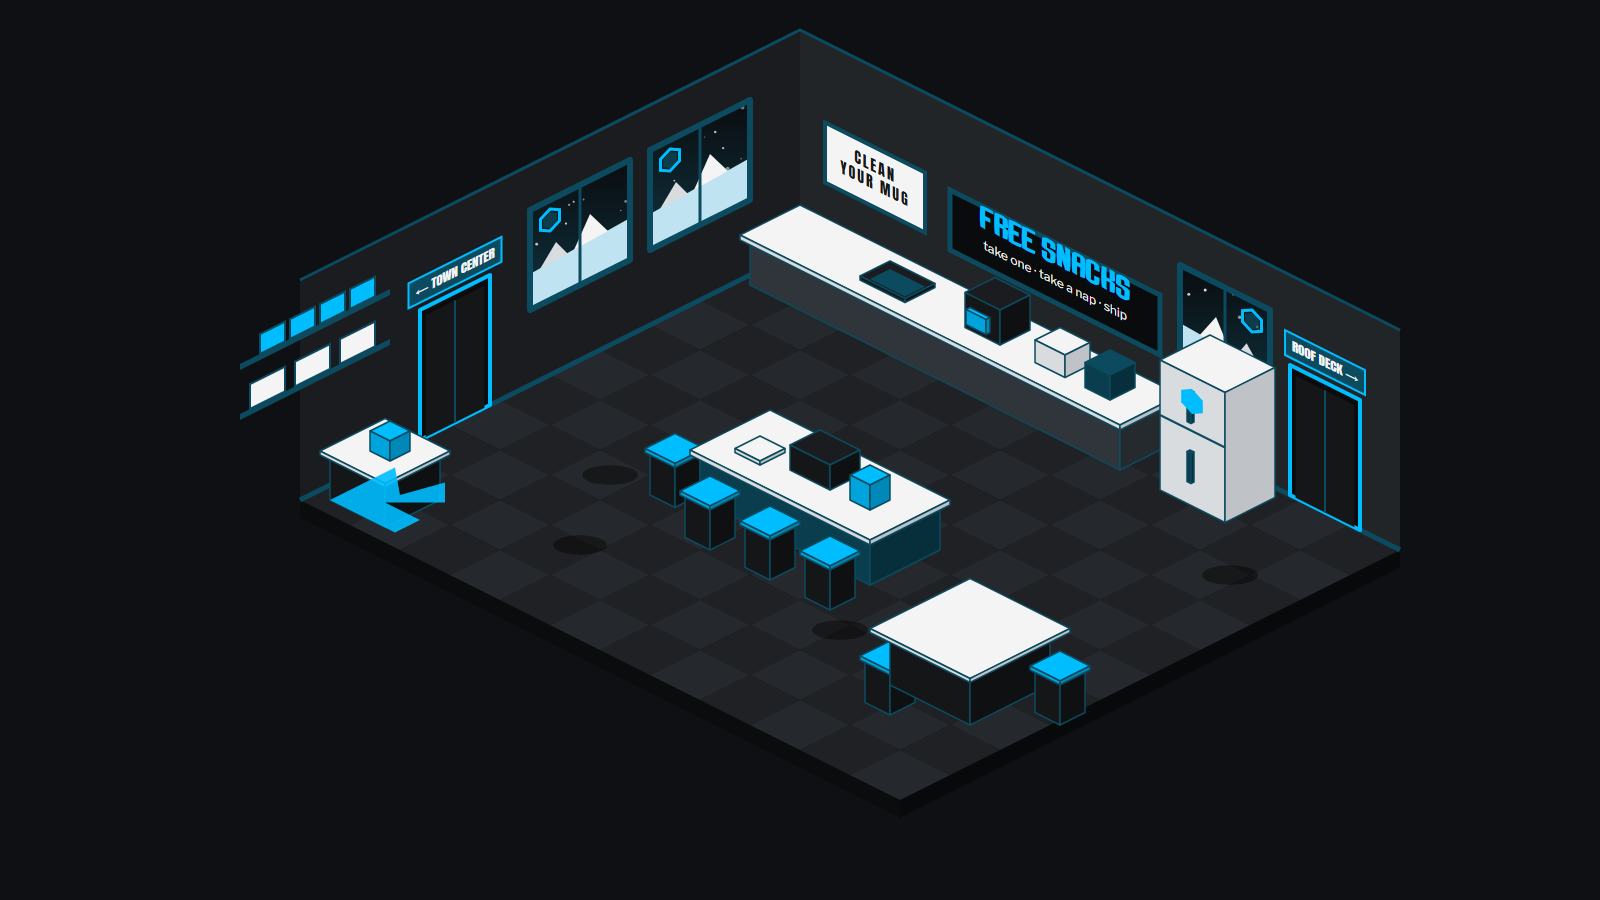
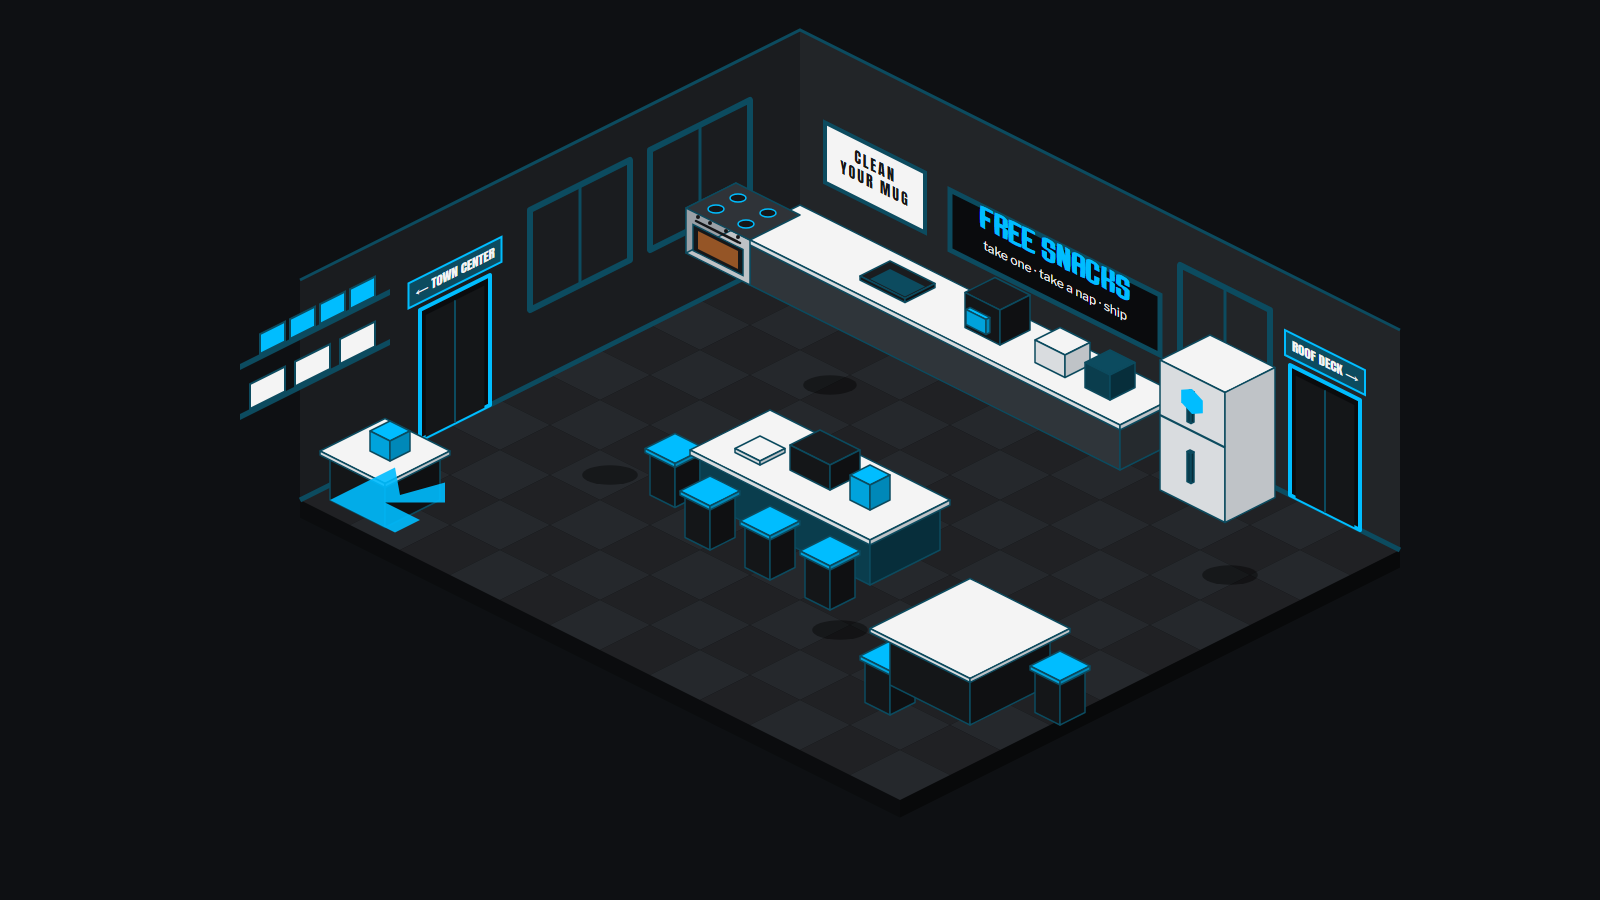
fix: resync room art export and data to the #91 Kitchen rename (#92 D1-D3)
- export-room-art.ts: map the-melt to the renamed Kitchen.dc.html and
  update its LIVE_ELEMENT_RULES for the new design's characters (Tom's
  tomWalk figure, Tonya/Jesse idle, shared say bubbles, and the new
  minigame-prompt pills) and title banner text.
- the-melt.ts: rename the displayed title to THE KITCHEN; replace the old
  chef-chelsea/chelsea pair with the redesigned single Chelsea plus the new
  Tom NPC; leave their row-2 aisle tiles walkable (a documented exception,
  like Roof Deck's Kevin/Josh aisle) since blocking them would fragment the
  Kitchen's only walkway.
- dev-pit.ts: block the five new desks' tiles added by the resync, except
  one monitor tile whose blocking would isolate a floor pocket
  (documented exception, reachability.test.ts-verified).
- town-center.ts / roof-deck.ts: update stale "The Melt" comments.
- Update the "THE MELT" title fixtures in validate.test.ts and
  pancake-flip-shell.test.ts.
- Re-export town-center/dev-pit/the-melt art; roof-deck and igloo come out
  byte-identical.

Changed region(s): [[0.3125, 0.1556, 0.5, 0.3422], [0.75, 0.3422, 0.8125, 0.3733]]

diff --git a/src/game/rooms/definitions/the-melt.ts b/src/game/rooms/definitions/the-melt.ts
@@ -10,16 +10,22 @@ import { townCenter } from './town-center';
 // `door()` isolib helper).
 const DOOR_HOTSPOT_SIZE = { width: 70, height: 165 };
 
-// Traced from `design/Room 04 Kitchen.dc.html`'s fixtures: the back-wall
-// counter/"FREE SNACKS" bar (rows 0-1), the central island counter and
-// fridge cluster (rows 3-6), and the front counter/table run (rows 7-9).
-// Row 4's cols 7-10 and row 9's cols 0-1 sample as the same floor colour as
-// the rest of the open floor in the exported art (not the counters'
-// white/teal), so they're walkable rather than blocked under the counter
-// cluster or the floor-arrow decal near the TOWN CENTER door (#16 fix 5).
-// Chelsea's and Jesse's own tiles are additionally blocked so a Penguin
-// can't walk through them (#16 fix 5); Chef Chelsea's and Tonya's tiles
-// already sat on unwalkable counters.
+// Traced from `design/Kitchen.dc.html`'s fixtures (#92 D3 resync -- the
+// walls, counters and doors are unchanged from the pre-resync trace, only
+// the NPCs moved): the back-wall counter/"FREE SNACKS" bar (rows 0-1), the
+// central island counter and fridge cluster (rows 3-6), and the front
+// counter/table run (rows 7-9). Row 4's cols 7-10 and row 9's cols 0-1
+// sample as the same floor colour as the rest of the open floor in the
+// exported art (not the counters' white/teal), so they're walkable rather
+// than blocked under the counter cluster or the floor-arrow decal near the
+// TOWN CENTER door (#16 fix 5). Tonya's tile already sat on an unwalkable
+// counter. Chelsea, Tom and Jesse (see `npcSlots` below) all resync (#92 D3)
+// onto row 2, this Room's only aisle between the back and island counters --
+// unlike every other NPC tile in this prototype, blocking their own tiles
+// would cut that single-tile-wide aisle into disconnected pockets
+// (`reachability.test.ts` catches this), so, like Roof Deck's Kevin/Josh
+// exception, their tiles are left walkable as a documented exception rather
+// than fabricating an unverified mask change to widen the aisle.
 const WALKABLE: readonly (readonly boolean[])[] = [
   [false, false, false, false, false, false, false, false, false, false, true, true],
   [false, false, false, false, false, false, false, false, false, false, true, true],
@@ -34,12 +40,15 @@ const WALKABLE: readonly (readonly boolean[])[] = [
 ];
 
 /**
- * Traced from `design/Room 04 Kitchen.dc.html` (The Melt is the Kitchen):
- * a real door back to Town Center and a real door on to the Roof Deck.
+ * Traced from `design/Kitchen.dc.html` (#92: file renamed from `Room 04
+ * Kitchen.dc.html`, Player-facing name renamed from THE MELT to THE
+ * KITCHEN): a real door back to Town Center and a real door on to the Roof
+ * Deck -- both doors are pixel-identical to the pre-resync design, so their
+ * hotspots/entry tiles are unchanged.
  */
 export const theMelt: RoomDefinition = {
   id: 'the-melt',
-  title: 'THE MELT',
+  title: 'THE KITCHEN',
   subtitle: 'KITCHEN · FLOOR 5',
   background: { kind: 'image', key: 'room-the-melt', url: 'rooms/the-melt.png' },
   grid: createStandardRoomGrid(),
@@ -67,12 +76,12 @@ export const theMelt: RoomDefinition = {
     },
   ],
   npcSlots: [
-    { npcId: 'chef-chelsea', tile: { col: 3, row: 1 } },
-    // "Chelsea Merrill": a full name like Darrin Jahnel's, kebab-cased to
-    // first name only — distinct from `chef-chelsea` above (the design
-    // names two different Chelseas in this Room).
-    { npcId: 'chelsea', tile: { col: 4, row: 8 } },
+    // #92 D3 resync: the design now names a single "Chelsea" (the pancake
+    // cook) instead of the pre-resync "Chef Chelsea"/"Chelsea Merrill" pair,
+    // and adds "Tom" (a walking, coffee-obsessed NPC); Tonya keeps her tile.
+    { npcId: 'chelsea', tile: { col: 3, row: 2 } },
+    { npcId: 'tom', tile: { col: 7, row: 2 } },
+    { npcId: 'jesse', tile: { col: 10, row: 2 } },
     { npcId: 'tonya', tile: { col: 8, row: 7 } },
-    { npcId: 'jesse', tile: { col: 11, row: 2 } },
   ],
 };

diff --git a/scripts/export-room-art.ts b/scripts/export-room-art.ts
@@ -53,7 +53,7 @@ type RoomId = 'town-center' | 'dev-pit' | 'the-melt' | 'roof-deck' | 'igloo';
 const ROOM_FILES: Record<RoomId, string> = {
   'town-center': 'Room 01 Town Center.dc.html',
   'dev-pit': 'Room 02 Dev Pit.dc.html',
-  'the-melt': 'Room 04 Kitchen.dc.html', // The Melt is the Kitchen.
+  'the-melt': 'Kitchen.dc.html', // RoomId `the-melt` stays; the design now calls it THE KITCHEN (#92 D1).
   'roof-deck': 'Room 05 Roof Deck.dc.html', // not the "05b ... Day" variant.
   igloo: 'Room 06 Igloo.dc.html',
 };
@@ -235,28 +235,40 @@ const LIVE_ELEMENT_RULES: Record<RoomId, HideRule[]> = {
     },
   ],
   'the-melt': [
-    // Every character in this Room is a flat, non-animated svg+nameplate
-    // pair (confirmed by inspection -- no CSS keyframes are applied to any
-    // figure here), so this Room has no `animation` rules for characters.
+    // #92 D3 resync: the design now names a single "Chelsea" (near the
+    // pancake station) instead of the pre-resync "Chef Chelsea"/"Chelsea
+    // Merrill" pair, and adds "Tom", a walking, coffee-obsessed NPC.
+    // Chelsea, Tonya and Jesse are still flat, non-animated svg+nameplate
+    // pairs; only Tom and every speech bubble use CSS keyframes.
     {
       kind: 'animation',
       names: ['blink'],
-      comment: "Blinking '↙ TOWN CENTER' / 'ROOF DECK ↗' room-exit nav pills (HUD).",
+      comment:
+        "Blinking '↙ TOWN CENTER' / 'ROOF DECK ↗' room-exit nav pills, and the new 'TALK · PANCAKE FLIP' / 'TALK · COFFEE RUSH' minigame prompt pills (all HUD).",
+    },
+    {
+      kind: 'animation',
+      names: ['tomWalk'],
+      comment:
+        "Tom's walking figure: unlike this Room's other NPCs, his nested name/speech bubbles all sit inside his own animated group, so this one rule hides his entire figure.",
+    },
+    {
+      kind: 'animation',
+      names: ['idle'],
+      comment:
+        "Tonya's and Jesse's subtle idle body motion (their nameplates are static -- see the labels rule below).",
+    },
+    {
+      kind: 'animation',
+      names: ['say'],
+      comment:
+        'Every speech bubble in this Room (Chelsea, Tonya, Jesse and the floating "who took my yogurt" bubble), all sharing this one keyframe.',
     },
     {
       kind: 'labels',
-      texts: [
-        'Chef Chelsea',
-        'Fresh pot!',
-        'Chelsea Merrill',
-        'Flip it NOW.',
-        'who took my yogurt',
-        'Tonya',
-        'Jesse',
-        'You',
-      ],
+      texts: ['Chelsea', 'Tonya', 'Jesse', 'You'],
       comment:
-        'Stationary NPCs/Penguins and their name/speech labels: two cook NPCs (Chef Chelsea, Chelsea Merrill) plus their bubbles, a floating "who took my yogurt" bubble, the Tonya and Jesse penguin NPCs, and the local player.',
+        'Stationary NPCs/Penguins and their nameplates: the Chelsea and Tonya/Jesse penguin NPCs, and the local player.',
     },
     {
       kind: 'cluster',
@@ -266,8 +278,8 @@ const LIVE_ELEMENT_RULES: Record<RoomId, HideRule[]> = {
     },
     {
       kind: 'cluster',
-      anchor: 'THE MELT',
-      companions: ['THE MELT', 'KITCHEN · FLOOR 5 · 4 PENGUINS HERE · COFFEE: FRESH'],
+      anchor: 'THE KITCHEN',
+      companions: ['THE KITCHEN', 'KITCHEN · FLOOR 5 · 4 PENGUINS HERE · COFFEE: FRESH'],
       comment: 'Room title/subtitle banner (HUD).',
     },
     {

diff --git a/src/game/rooms/definitions/dev-pit.ts b/src/game/rooms/definitions/dev-pit.ts
@@ -10,16 +10,25 @@ const DOOR_HOTSPOT_SIZE = { width: 70, height: 165 };
 
 // Traced from `design/Room 02 Dev Pit.dc.html`'s fixtures: the "SPRINT 42"
 // whiteboard/desk cluster (cols 1-4, rows 1-3) and a small pedestal by THE
-// ICEBOX elevator (col 11, row 3). Every NPC's own tile (see `npcSlots`
-// below) is additionally blocked so a Penguin can't walk through them (#16
-// fix 5) -- this Room's floor was otherwise fully open.
+// ICEBOX elevator (col 11, row 3). #92 D3 resync added five more desks
+// (each a monitor tile plus the desktop/keyboard tile just in front of it,
+// the same two-tile footprint the original desk already blocked): (4,1)/
+// (5,2) (partially overlapping the original cluster's own (4,2)), (1,4)/
+// (1,5), (4,5) (its monitor tile (4,4) is left walkable -- blocking it seals
+// (2,4)/(3,4)/(2,5) into a pocket with no other opening, `reachability.test.ts`
+// catches this, so it's left walkable as a documented exception, the same
+// call Roof Deck's Kevin/Josh aisle makes), (7,1) (its desktop tiles
+// (7,2)/(8,2) were already blocked as Ryan's and Sam's own NPC tiles,
+// below), and (7,4)/(7,5). Every NPC's own tile (see `npcSlots` below) is
+// additionally blocked so a Penguin can't walk through them (#16 fix 5) --
+// this Room's floor was otherwise fully open.
 const WALKABLE: readonly (readonly boolean[])[] = [
   [true, true, true, true, true, true, true, true, true, true, true, true],
-  [true, false, false, false, true, true, true, true, true, true, true, true],
-  [true, false, false, false, false, true, true, false, false, true, true, true],
+  [true, false, false, false, false, true, true, false, true, true, true, true],
+  [true, false, false, false, false, false, true, false, false, true, true, true],
   [true, true, false, false, false, true, true, true, true, true, true, false],
-  [true, true, true, true, true, true, true, true, true, true, true, true],
-  [true, true, true, false, true, true, true, true, true, true, true, true],
+  [true, false, true, true, true, true, true, false, true, true, true, true],
+  [true, false, true, false, false, true, true, false, true, true, true, true],
   [true, true, false, true, true, true, true, true, true, true, true, true],
   [true, true, true, true, true, true, true, true, true, true, true, true],
   [true, true, true, true, true, true, true, true, true, true, false, true],
@@ -29,9 +38,9 @@ const WALKABLE: readonly (readonly boolean[])[] = [
 /**
  * Traced from `design/Room 02 Dev Pit.dc.html`: a real door back to Town
  * Center, and THE ICEBOX disabled (not one of this prototype's five Rooms).
- * The design has no in-scene door or elevator toward The Melt/Kitchen at
- * all (confirmed: no "MELT"/"KITCHEN" text anywhere in the file), so this
- * Room defines no door to The Melt.
+ * The design has no in-scene door or elevator toward the Kitchen at all
+ * (confirmed: no "MELT"/"KITCHEN" text anywhere in the file), so this
+ * Room defines no door to the Kitchen.
  */
 export const devPit: RoomDefinition = {
   id: 'dev-pit',

diff --git a/src/game/rooms/definitions/town-center.ts b/src/game/rooms/definitions/town-center.ts
@@ -43,9 +43,11 @@ const WALKABLE: readonly (readonly boolean[])[] = [
  * "ELEVATOR · ROOF DECK" (real; its hotspot is the two animated door panels'
  * bounding box, since it isn't drawn with the same `door()` frame as the
  * others). The design also shows a "KITCHEN ↘" HUD exit pill with no in-scene
- * door graphic to place a hotspot on, so this Room has no door to The Melt
- * (The Melt's own "← TOWN CENTER" door is one-way in this static prototype;
- * see the #16 execution plan's reported deviations).
+ * door graphic to place a hotspot on, so this Room has no door to the Kitchen
+ * (the Kitchen's own "← TOWN CENTER" door is one-way in this static
+ * prototype; see the #16 execution plan's reported deviations). #92 D3
+ * resync: this Room's only design change was a cosmetic tweak to Anthony's
+ * (Roof Deck) cameo figure, so this trace is otherwise unchanged.
  */
 export const townCenter: RoomDefinition = {
   id: 'town-center',

diff --git a/src/game/rooms/definitions/roof-deck.ts b/src/game/rooms/definitions/roof-deck.ts
@@ -39,7 +39,7 @@ const WALKABLE: readonly (readonly boolean[])[] = [
  * only exit indicator is a "↙ ELEVATOR · STAIRS · KITCHEN" HUD nav pill, with
  * no in-world hotspot to place. Per #16 D3 ("doors placed on the design's
  * door signs/doorways"), there is nothing to place here, so this Room has no
- * doors; it's still reachable via Town Center's and The Melt's elevator/
+ * doors; it's still reachable via Town Center's and the Kitchen's elevator/
  * stairs doors, whose `entryTile` points at this Room's own `spawnTile`. This
  * is reported as a deviation on the #16 execution plan. `spawnTile` isn't any
  * NPC's own interaction tile (#16 fix 4; see `reachability.test.ts`).

diff --git a/src/game/rooms/validate.test.ts b/src/game/rooms/validate.test.ts
@@ -383,7 +383,7 @@ describe('ROOM_DEFINITIONS registry', () => {
       subtitle: 'TEAM RMS 1–4 · FLOOR 5',
     });
     expect(getRoomDefinition('the-melt')).toMatchObject({
-      title: 'THE MELT',
+      title: 'THE KITCHEN',
       subtitle: 'KITCHEN · FLOOR 5',
     });
     expect(getRoomDefinition('roof-deck')).toMatchObject({

diff --git a/src/minigames/pancake-flip/pancake-flip-shell.test.ts b/src/minigames/pancake-flip/pancake-flip-shell.test.ts
@@ -30,7 +30,7 @@ function setup() {
     layer,
     store,
     overlays,
-    resolveRoomTitle: () => ({ title: 'THE MELT', subtitle: 'x' }),
+    resolveRoomTitle: () => ({ title: 'THE KITCHEN', subtitle: 'x' }),
     registry: { 'pancake-flip': () => minigame },
   });
 
